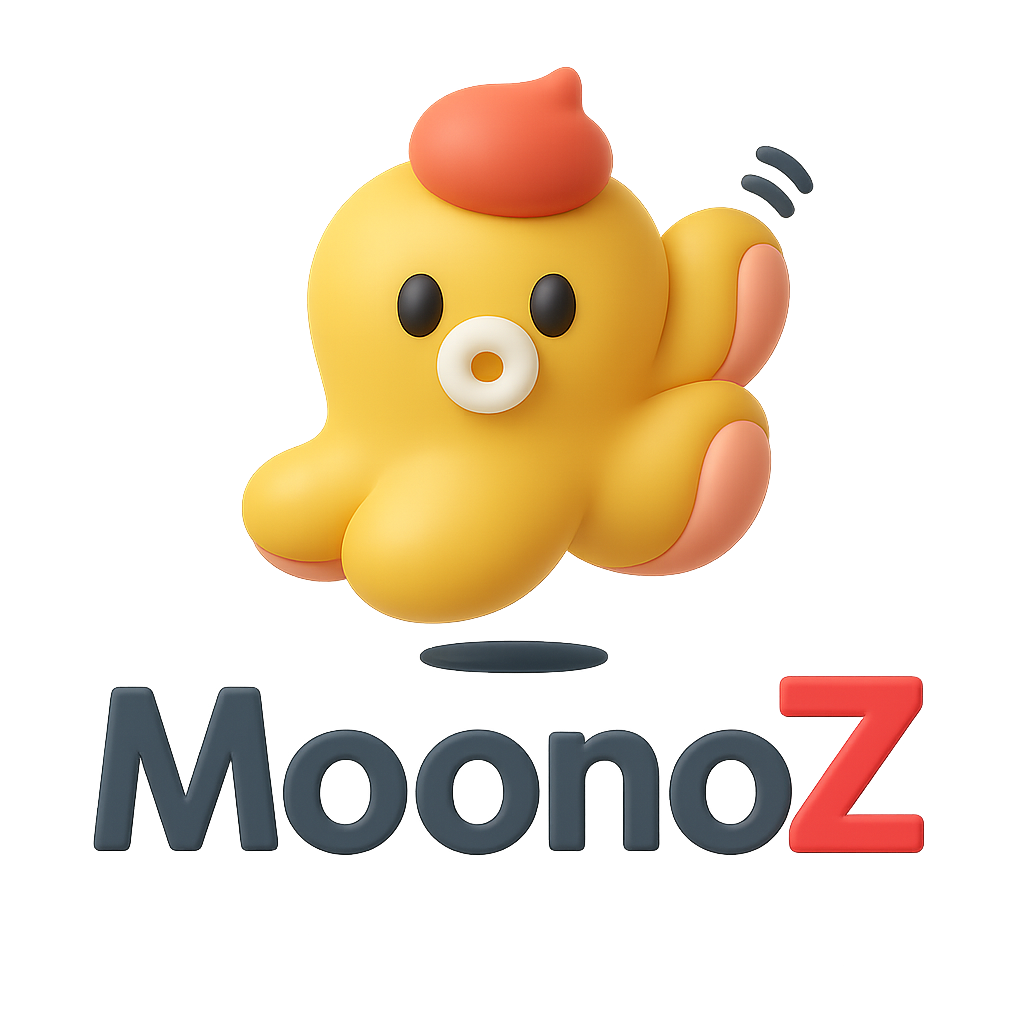
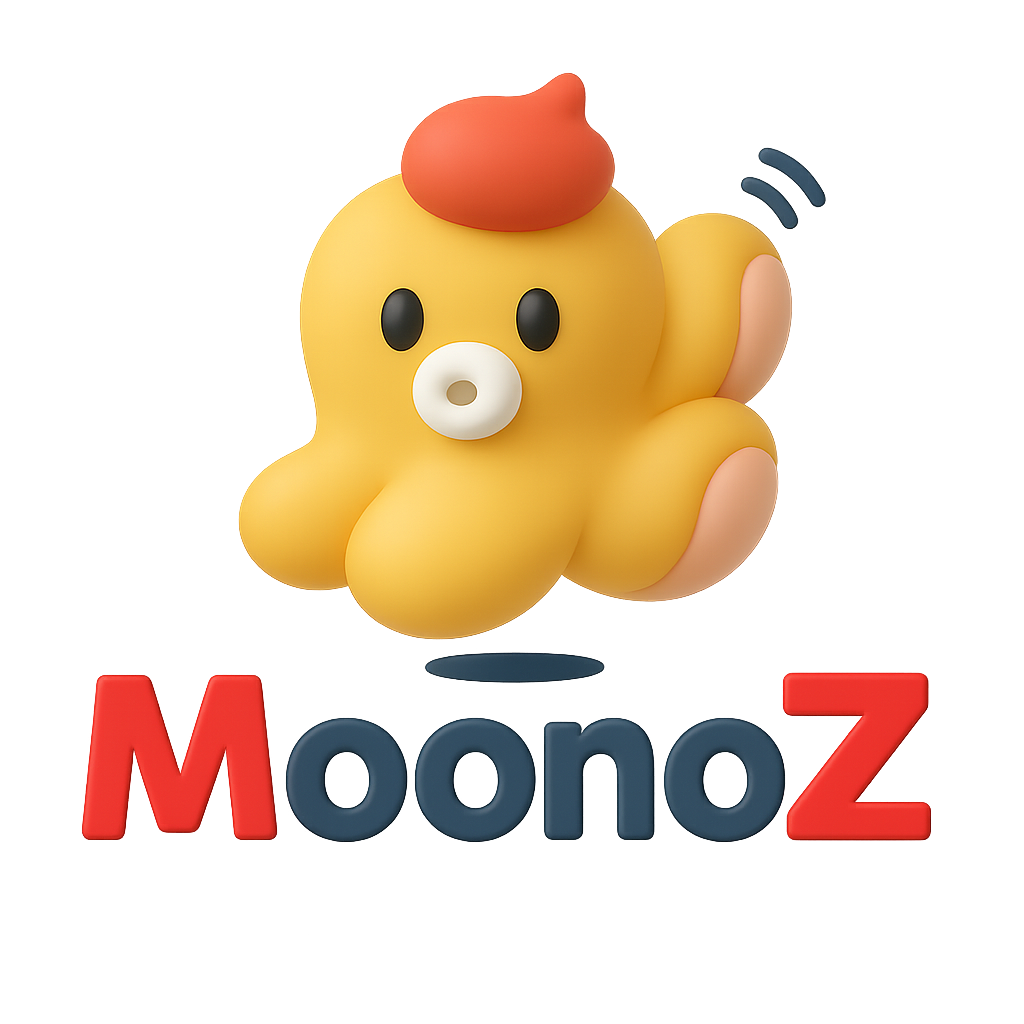
Feat: [EVER-213] 로고 및 캐릭터 변경 #123

diff --git a/src/constant/imagePath.ts b/src/constant/imagePath.ts
@@ -2,11 +2,10 @@ export const IMAGES = {
   MOONER: {
     'mooner-phone': '/images/mooner-phone.svg',
     'mooner-chat': '/images/mooner-chat.png',
-    'moonoz-logo': '/images/moonoz-logo.svg',
+    'moonoz-logo': '/images/moonoz-logo.png',
     'moonoz-hello': '/images/moonoz-hello.png',
     'mooner-game': '/images/mooner-game.svg',
     'mooner-share': 'https://d3e0ocbonj571p.cloudfront.net/MoonoZ.png',
-    'mooner-login': 'https://d3e0ocbonj571p.cloudfront.net/MoonoZ_Login.png',
     rotation_1: 'https://d3e0ocbonj571p.cloudfront.net/Rotation_1.png',
     rotation_2: 'https://d3e0ocbonj571p.cloudfront.net/Rotation_2.png',
     rotation_3: 'https://d3e0ocbonj571p.cloudfront.net/Rotation_3.png',

diff --git a/src/pages/ubti/UBTI.tsx b/src/pages/ubti/UBTI.tsx
@@ -148,7 +148,7 @@ export const UBTIResultPage: React.FC = () => {
         title: matchedBrand?.title || subscription.name,
         category: matchedBrand?.category || '추천 구독',
         price: 0,
-        image_url: matchedBrand?.image_url || IMAGES.MOONER['mooner-login'],
+        image_url: matchedBrand?.image_url || IMAGES.MOONER['moonoz-hello'],
       },
       life_brand: undefined,
     };

diff --git a/src/pages/auth/Login.tsx b/src/pages/auth/Login.tsx
@@ -58,7 +58,7 @@ const Login: React.FC = () => {
         {/* MoonoZ Logo and Mascot */}
         <div className="text-center">
           <img
-            src={IMAGES.MOONER['mooner-login']}
+            src={IMAGES.MOONER['moonoz-hello']}
             alt="MoonoZ Logo"
             className="h-50 w-50 mx-auto"
           />
